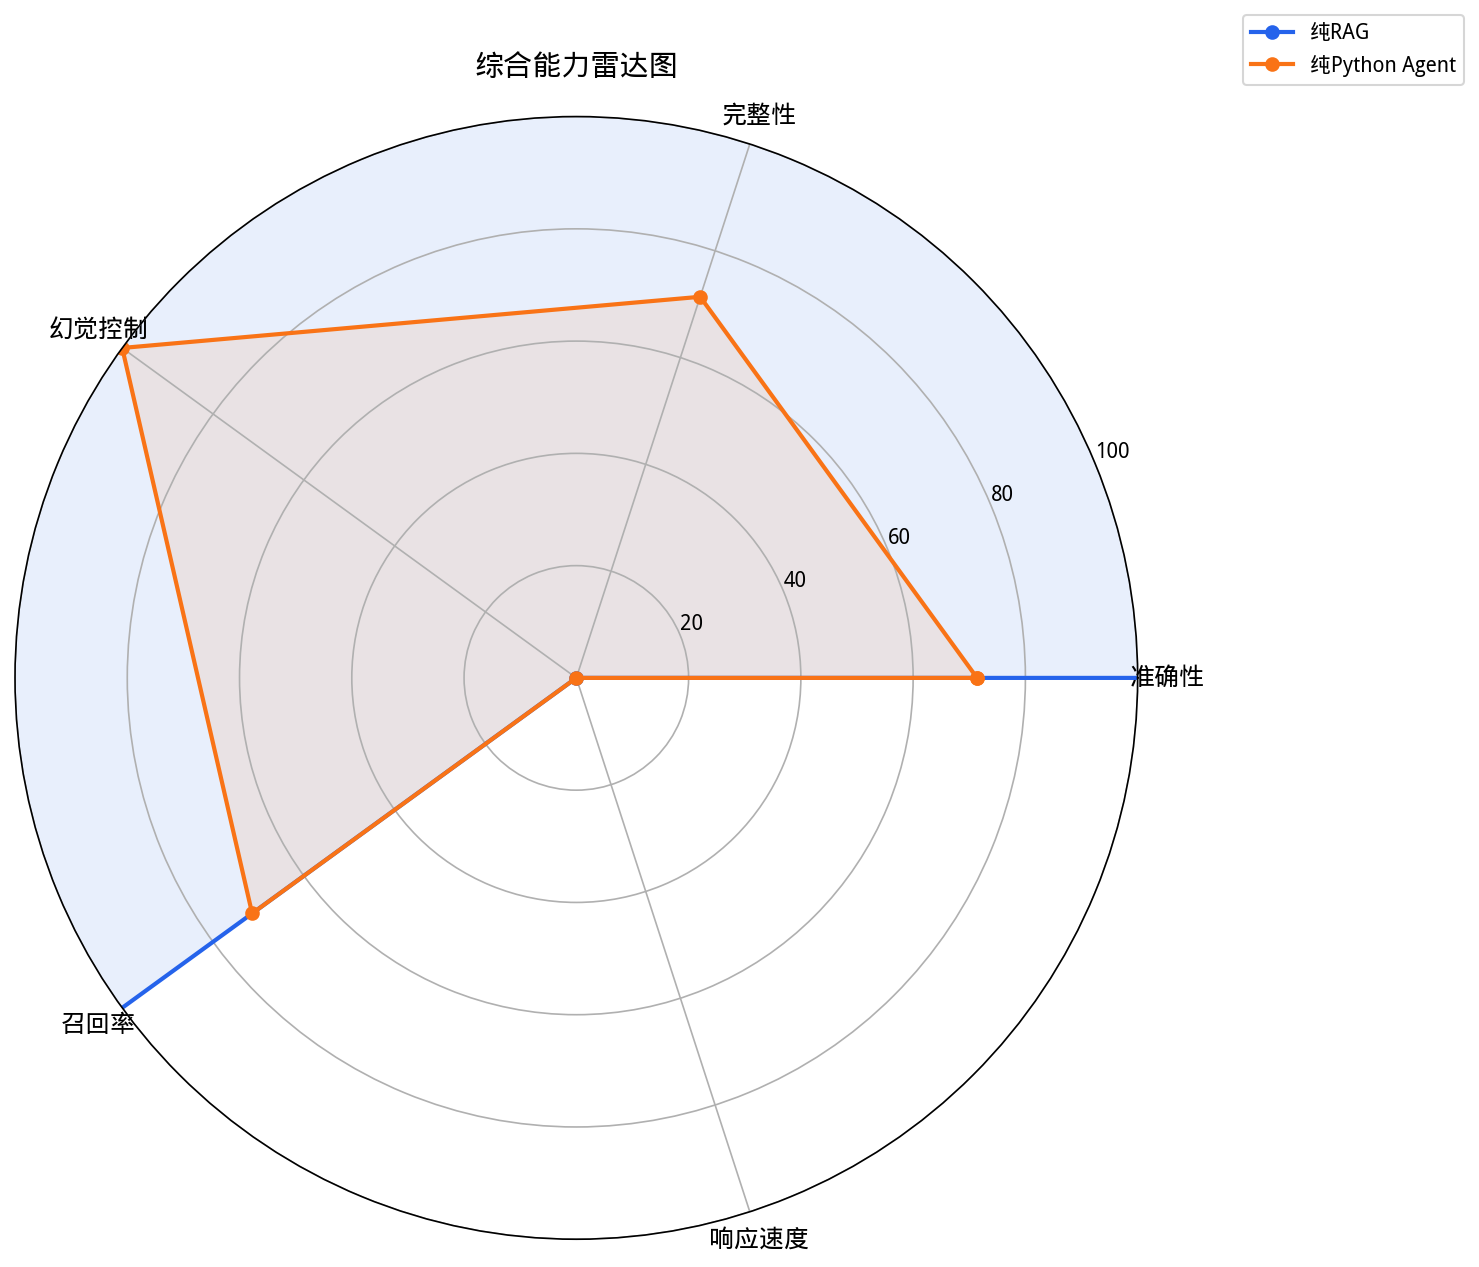
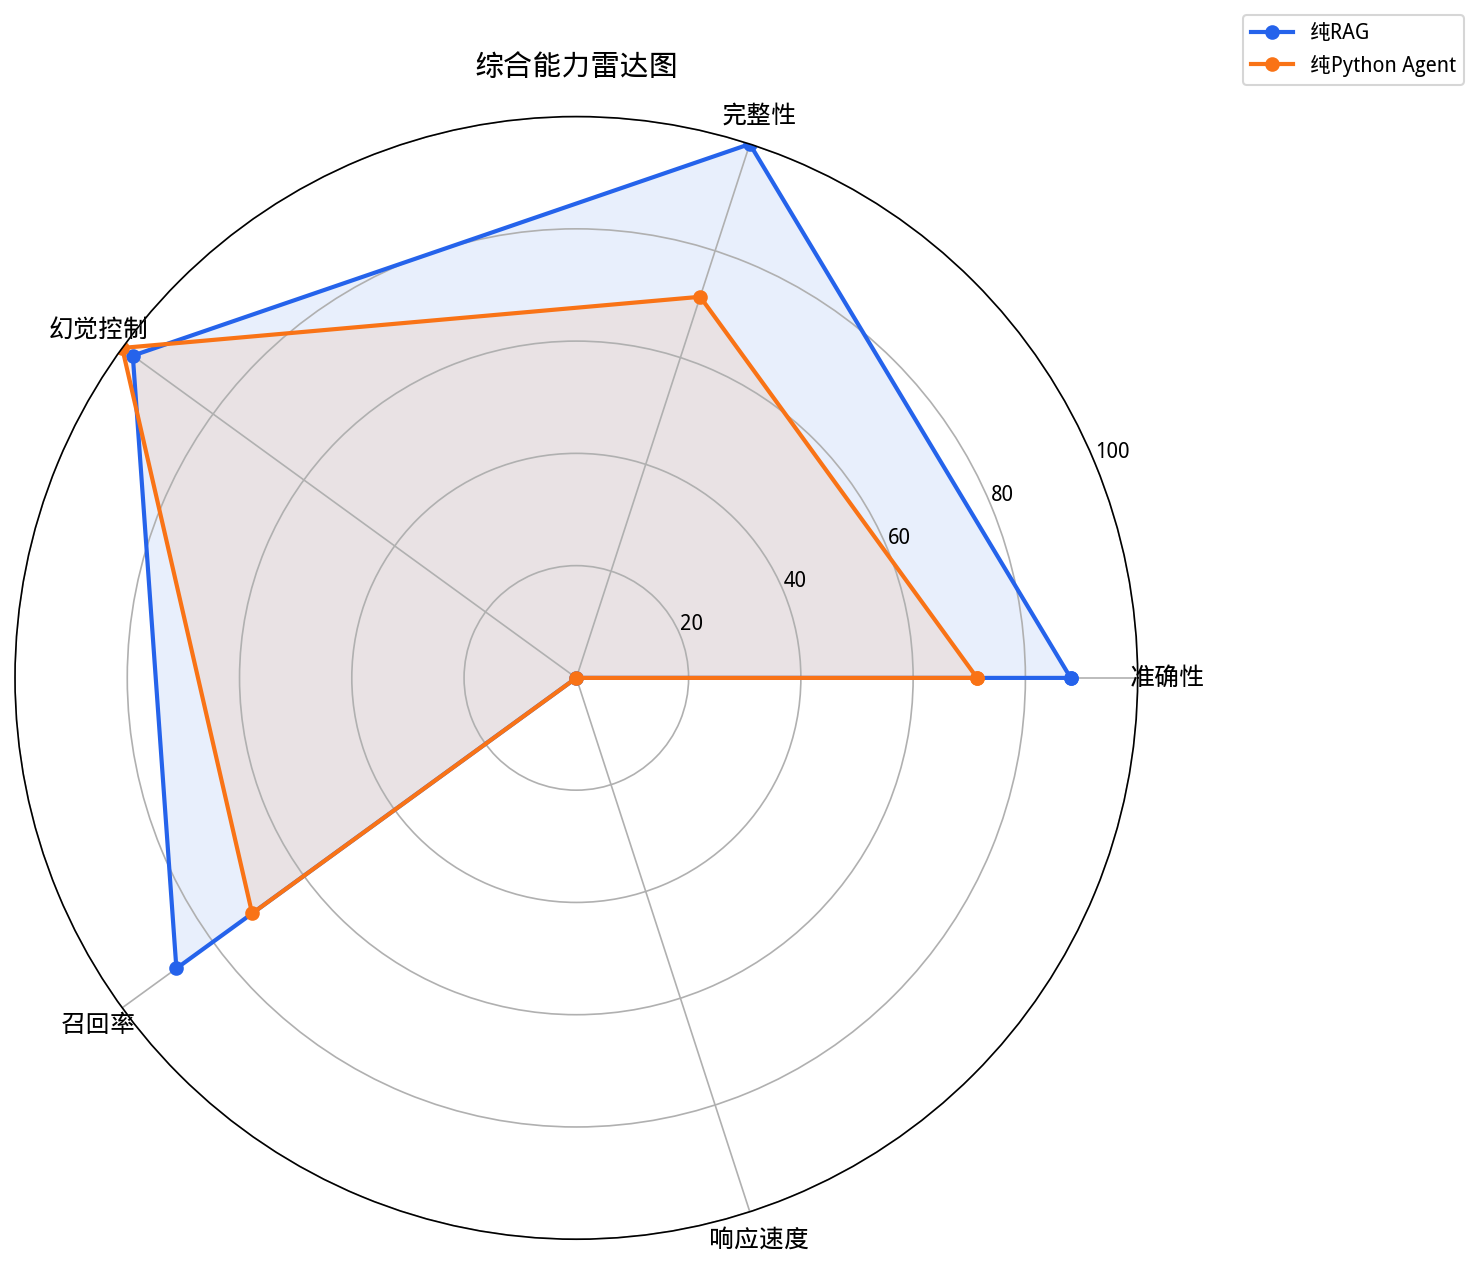
fix: 评分数据统一0-100分制，修复柱状图溢出

diff --git a/visualize_eval.py b/visualize_eval.py
@@ -52,18 +52,19 @@ def load_simple_rag(filepath):
     if has_detailed:
         passed = sum(1 for r in results if r.get('total', 0) >= 6.0)
         avg_total = np.mean([r.get('total', 0) for r in results])
-        avg_accuracy = np.mean([r.get('accuracy', 0) for r in results])
-        avg_completeness = np.mean([r.get('completeness', 0) for r in results])
-        avg_hallucination = np.mean([r.get('hallucination', 0) for r in results])
-        avg_recall = np.mean([r.get('recall', 0) for r in results])
+        # accuracy/completeness/hallucination/recall 都是0-10分制，转0-100
+        avg_accuracy = np.mean([r.get('accuracy', 0) for r in results]) * 10
+        avg_completeness = np.mean([r.get('completeness', 0) for r in results]) * 10
+        avg_hallucination = np.mean([r.get('hallucination', 0) for r in results]) * 10
+        avg_recall = np.mean([r.get('recall', 0) for r in results]) * 10
     else:
         passed = sum(1 for r in results if r.get('passed', False))
         avg_hit = np.mean([r.get('hit_rate', 0) for r in results])
         avg_total = avg_hit * 10
-        avg_accuracy = avg_hit * 5
-        avg_completeness = avg_hit * 5
-        avg_hallucination = 5.0
-        avg_recall = avg_hit * 5
+        avg_accuracy = avg_hit * 100
+        avg_completeness = avg_hit * 100
+        avg_hallucination = 100.0
+        avg_recall = avg_hit * 100
 
     avg_elapsed = np.mean([r.get('elapsed', 0) for r in results])
     total = len(results)
@@ -124,10 +125,10 @@ def load_dx_agent(filepath):
         'pass_rate': stats.get('pass_rate', passed / total * 100),
         'avg_elapsed': avg_elapsed,
         'avg_hit_rate': avg_hit_rate,
-        'avg_accuracy': avg_hit * 5,
-        'avg_completeness': avg_hit * 5,
-        'avg_hallucination': 5.0,
-        'avg_recall': avg_hit * 5,
+        'avg_accuracy': avg_hit * 100,
+        'avg_completeness': avg_hit * 100,
+        'avg_hallucination': 100.0,
+        'avg_recall': avg_hit * 100,
         'type_pass_rate': type_pass_rate,
         'type_elapsed': {k: np.mean(v) for k, v in type_elapsed.items()},
     }
@@ -207,10 +208,10 @@ def plot_radar(records, output_path):
             continue
         latest = recs[-1]
         values = [
-            latest.get('avg_accuracy', 0) * 20,
-            latest.get('avg_completeness', 0) * 20,
-            latest.get('avg_hallucination', 0) * 20,
-            latest.get('avg_recall', 0) * 20,
+            latest.get('avg_accuracy', 0),
+            latest.get('avg_completeness', 0),
+            latest.get('avg_hallucination', 0),
+            latest.get('avg_recall', 0),
             max(0, 100 - latest.get('avg_elapsed', 0) * 5),
         ]
         values += values[:1]
@@ -381,19 +382,19 @@ def plot_scheme_comparison(records, output_path):
         latest = sr[-1]
         sr_vals = [
             latest.get('pass_rate', 0),
-            latest.get('avg_accuracy', 0) * 20,
-            latest.get('avg_completeness', 0) * 20,
-            latest.get('avg_hallucination', 0) * 20,
-            latest.get('avg_recall', 0) * 20,
+            latest.get('avg_accuracy', 0),
+            latest.get('avg_completeness', 0),
+            latest.get('avg_hallucination', 0),
+            latest.get('avg_recall', 0),
         ]
     if dx:
         latest = dx[-1]
         dx_vals = [
             latest.get('pass_rate', 0),
-            latest.get('avg_accuracy', 0) * 20,
-            latest.get('avg_completeness', 0) * 20,
-            latest.get('avg_hallucination', 0) * 20,
-            latest.get('avg_recall', 0) * 20,
+            latest.get('avg_accuracy', 0),
+            latest.get('avg_completeness', 0),
+            latest.get('avg_hallucination', 0),
+            latest.get('avg_recall', 0),
         ]
 
     x = np.arange(len(metrics))
